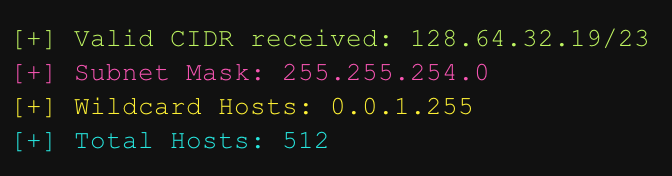
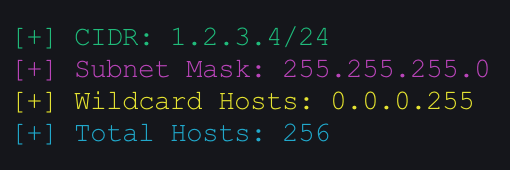
Use command line args

diff --git a/src/CIDR.ts b/src/CIDR.ts
@@ -13,7 +13,7 @@ export class CIDR {
         this.cidr = cidr;
         this.isValid = this.cidrIsValid();
         if (this.isValid) {
-            console.log(colors.green(`\n[+] Valid CIDR received: ${this.cidr}`));
+            console.log(colors.green(`\n[+] CIDR: ${this.cidr}`));
 
             this.subnetMask = this.calculateSubnetMask();
             console.log(colors.magenta(`[+] Subnet Mask: ${this.subnetMask}`));
@@ -24,8 +24,8 @@ export class CIDR {
             this.totalHosts = this.calculateTotalHosts();
             console.log(colors.cyan(`[+] Total Hosts: ${this.totalHosts}\n`));
         } else {
-            console.log(colors.red(`\n[-] CIDR invalid: ${this.cidr}`));
-            console.log(colors.red(`[-] Required format: [0-255].[0-255].[0-255].[0-255]/[0-32]\n`));
+            console.log(colors.bgRed(`\n[-] CIDR invalid: ${this.cidr}`));
+            console.log(colors.yellow(`[-] Required format: [0-255].[0-255].[0-255].[0-255]/[0-32]\n`));
         }
     }
 

diff --git a/main.ts b/main.ts
@@ -1,3 +1,3 @@
-import * as colors from 'colors';
+import { CIDR } from './src/CIDR';
 
-console.log(colors.green('I AM ALIIIIVE!'));
+new CIDR(process.env.CIDR);

diff --git a/README.md b/README.md
@@ -1,5 +1,18 @@
 # cidr-module
 
-Pass in a CIDR IP range and get command line analysis (TODO: commandline args)
+Analyses and returns information about a CIDR block.
 
 ![Example analysis](https://github.com/b3nThomas/cidr-module/blob/master/example.png?raw=true)
+
+## Usage
+
+Install and build the program:
+
+    $ git clone https://github.com/b3nThomas/cidr-module.git
+    $ cd cidr-module
+    $ npm i
+    $ npm run build
+
+Then pass in your CIDR to be analysed:
+
+    $ CIDR="10.2.255.2/24" node main.js
